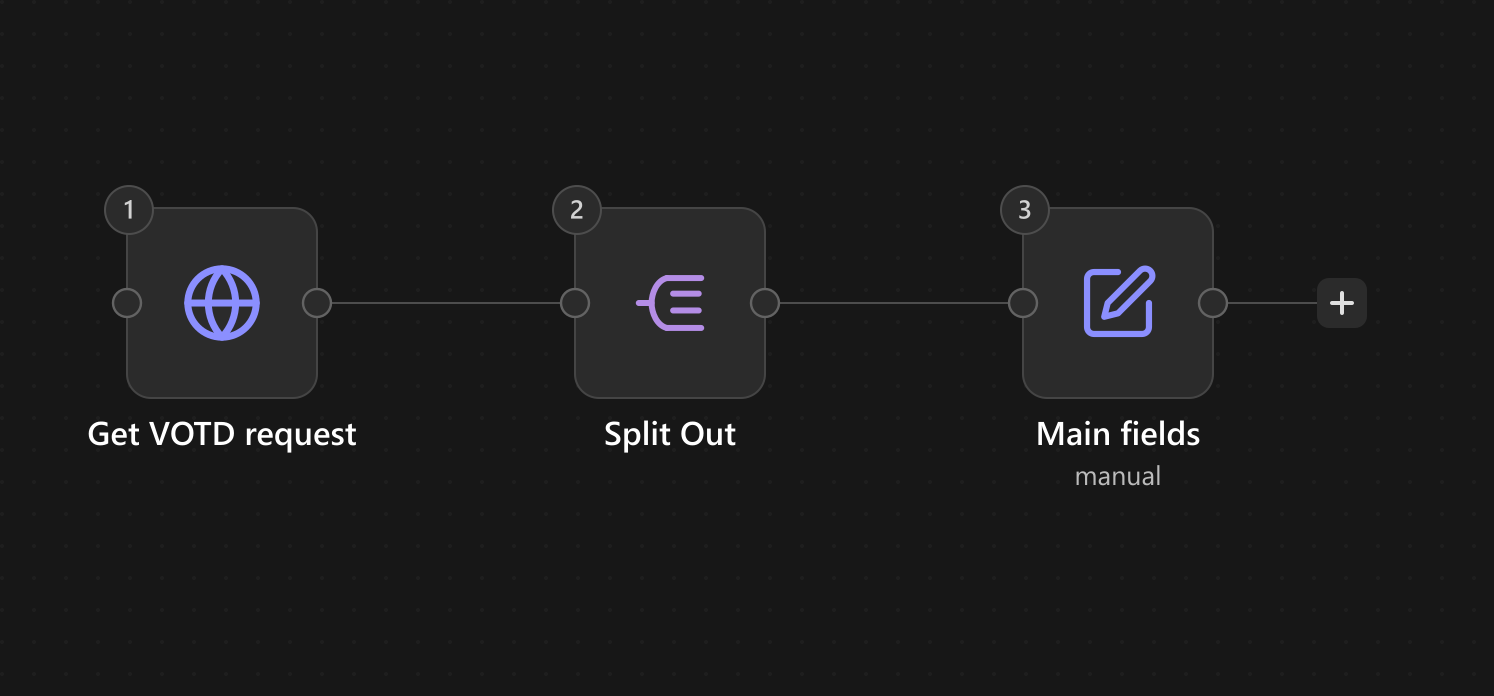
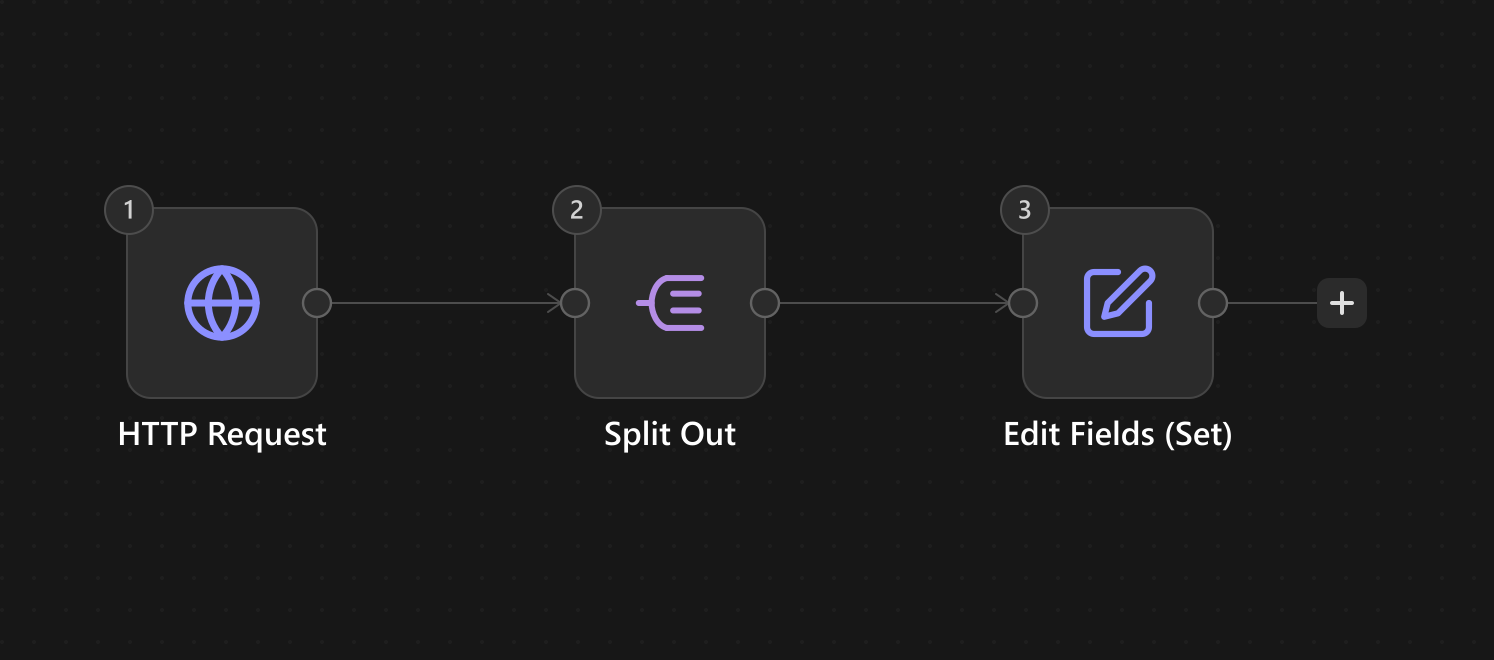
Step 1 polished

diff --git a/src/data/data-tables.ts b/src/data/data-tables.ts
@@ -4,16 +4,19 @@
  * Edit these lists to change what <SchemaTable /> renders:
  * - name: column name (rendered as-is, monospace)
  * - type: data type shown in the pill (INT, String, Number, DATETIME…)
- * - desc: optional one-line explanation — not rendered by the table anymore
+ * - comment: optional note rendered under the row (small muted line)
+ * - ellipsis: renders a "…" placeholder row (use it to hide columns)
  *
  * Usage:
  *   <SchemaTable />                          → viz_of_the_day
  *   <SchemaTable table="summary_posting" />  → the other table
  */
 export interface SchemaColumn {
-  name: string;
-  type: string;
-  desc?: string;
+  name?: string;
+  type?: string;
+  comment?: string;
+  /** Render a "…" placeholder row instead of a field. */
+  ellipsis?: boolean;
 }
 
 export const tableSchemas = {
@@ -21,22 +24,19 @@ export const tableSchemas = {
     { name: 'id', type: 'INT' },
     { name: 'author_profile', type: 'String' },
     { name: 'author_name', type: 'String' },
-    { name: 'workbook_repo_url', type: 'String' },
     { name: 'viz_url', type: 'String' },
-    { name: 'initial_view_count', type: 'String' },
-    { name: 'last_view_count', type: 'Number' },
-    { name: 'initial_favorites_count', type: 'Number' },
-    { name: 'last_favorites_count', type: 'Number' },
-    { name: 'initial_reactions_sad', type: 'Number' },
-    { name: 'last_reactions_sad', type: 'Number' },
-    { name: 'initial_reactions_insightful', type: 'Number' },
-    { name: 'last_reactions_insightful', type: 'Number' },
-    { name: 'initial_reactions_nominate', type: 'Number' },
-    { name: 'last_reactions_nominate', type: 'Number' },
-    { name: 'initial_reactions_love', type: 'Number' },
-    { name: 'last_reaction_love', type: 'Number' },
-    { name: 'thumbnail_url', type: 'String' },
-    { name: 'curated_at', type: 'String' },
+    {
+      name: 'engagement metrics',
+      type: 'Number',
+      comment:
+        'Every reaction is stored twice — the count from when the viz was first tracked and the count from the latest check — so engagement growth can be compared.',
+    },
+    {
+      name: 'curated_at',
+      type: 'String',
+      comment:
+        'The date of the Viz of the Day. Our workflow filters on this column to tell whether a viz is new or already being tracked.',
+    },
     { name: 'createdAt', type: 'DATETIME' },
     { name: 'updatedAt', type: 'DATETIME' },
   ],
